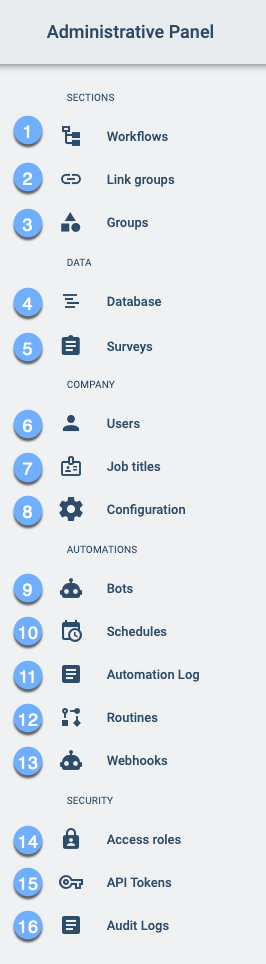
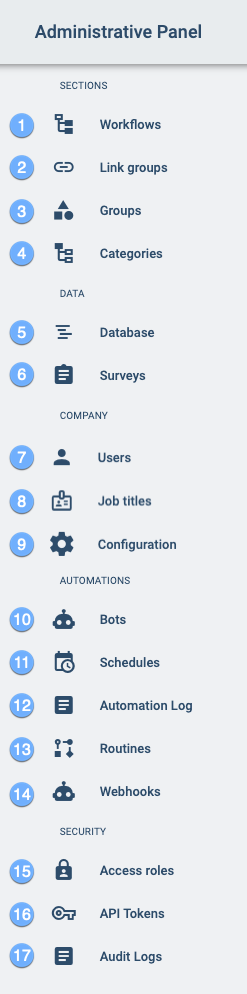
Categories - Nested Groups

diff --git a/sidebars.js b/sidebars.js
@@ -114,6 +114,7 @@ module.exports = {
               ],
               collapsed: true,
             },
+            'documentation/admin/admin_categories',
           ],
           collapsed: true,
         },
@@ -339,7 +340,7 @@ module.exports = {
     },
     {
       type: 'category',
-      label: 'Channels & Messages',
+      label: 'Groups & Messages',
       items: [
         'documentation/api/communication/channels',
         'documentation/api/communication/messages',
@@ -404,7 +405,7 @@ module.exports = {
     },
     {
       type: 'category',
-      label: 'Channels & Messages',
+      label: 'Groups & Messages',
       items: [
         'documentation/models/communication/model_channels',
         'documentation/models/communication/model_groups',

diff --git a/docs/documentation/admin/admin_categories.md b/docs/documentation/admin/admin_categories.md
@@ -1,0 +1,165 @@
+---
+title: Categories
+---
+import useBaseUrl from '@docusaurus/useBaseUrl';
+
+<img alt="design" className="img_title" src={useBaseUrl('img/design/Main_menu.svg')} />
+
+## Overview {#overview}
+
+In the **Categories** section, you can set up _groups_ that act as sub-menus within the _Main Menu Bar_. _Category groups_ are sets of _standard_, _link_, and/or _workflow_ groups categorized together.
+
+_Category groups appear on the Main Menu Bar as shown below:_
+
+<img alt="categories" className="img_sizing item shadow--tl" src={useBaseUrl('img/admin_categories_00a.gif')} />
+<br/>
+
+:::note
+- _Category groups_ can only be one level deep.
+- Sub-menus appear initially in the closed position but will reappear in the last position left at by the user.
+:::
+
+## Access the Categories Section {#access}
+_To access the Categories section:_
+
+<img alt="categories" className="img_sizing item shadow--tl" src={useBaseUrl('img/admin_categories_00.png')} />
+<br/>
+
+<div className="margin margin-left--lg">
+
+1. From the **Main Menu Bar**, select <span className="badge badge--primary">Administrador</span>.
+2. In the **Administrative Panel**, choose <span className="badge badge--info">Categories</span>.
+3. The **Categories** section opens up. From there, you can create or edit _category groups_ to set up sub-menus.
+
+</div>
+<br/>
+
+## Categories Panel Layout {#layout}
+
+<div className="alert alert--secondary">
+
+The **Categories** panel contains a list of all existing _category groups_, along with the options to create and edit them.
+
+<img alt="categories" className="img_sizing item shadow--tl" src={useBaseUrl('img/admin_categories_01.png')} />
+<br/>
+
+<div className="margin margin-left--lg">
+
+_Actions:_
+- **1. Create new group**: [Create a category group](#create) that will be displayed as a sub-menu in the Main Menu Bar.
+
+_Options:_
+- **A. Icon**: Displays the category's icon.
+- **B. Name**: The category's name.
+- **C. Last modified**: Indicates when the category was last modified.
+- **D. Edit**: The _pen icon_ lets you [edit the group](#edit).
+
+</div>
+
+</div>
+<br/>
+
+## Create a New Group {#create}
+To create a new category, press the <span className="badge badge--secondary">+</span> icon found in the upper right-hand corner. Afterward, the [Create Category settings panel](#settings) will open up.
+
+<img alt="categories" className="img_sizing item shadow--tl" src={useBaseUrl('img/admin_categories_03.png')} />
+<br/>
+
+## Edit a Group {#edit}
+To edit an existing _category_, press its corresponding _pen icon_. Afterward, the [Edit Category settings panel](#settings) will open up.
+
+<img alt="categories" className="img_sizing item shadow--tl" src={useBaseUrl('img/admin_categories_04.png')} />
+<br/>
+<br/>
+
+<div className="alert alert--secondary">
+
+## Create/Edit Group Settings Panel Layout {#settings}
+_Whether creating or editing a category, the following settings panel opens up:_
+
+<img alt="categories" className="img_sizing item shadow--tl" src={useBaseUrl('img/admin_categories_02.png')} />
+<br/>
+
+_Actions:_
+- **1. Deactivate**: Makes the category group unavailable.
+- **2. Save**: Saves the last changes made to the category group.
+
+_Options:_
+- **A. General Information**: Indicate the category group's basic settings.
+- **B. Icon**: Set the icon representing the category group on the _Main Menu Bar_.
+
+</div>
+<br/>
+
+<div className="alert alert--secondary">
+
+### A. General Information {#general}
+_Set up the category group's basic settings._
+
+<img alt="categories" className="img_sizing item shadow--tl" src={useBaseUrl('img/admin_categories_05.png')} />
+<br/>
+
+<div className="container box">
+<div className="row table-row-1">
+<div className="col col--3"><strong>Name</strong>:</div>
+<div className="col col--4">The category group's display name.</div>
+<div className="col col--5"><em>It doesn't have to be unique and can contain any characters.</em></div>
+</div>
+
+
+<div className="row table-row-2">
+<div className="col col--3"><strong>Code</strong>:</div>
+<div className="col col--4">The category group's identification code name.</div>
+<div className="col col--5"><em>This field is automatically completed with the text input in the Name field, but can be manually changed before saving. The code only allows lowecase letters, numbers, underscores, and must always begin with a letter.</em></div>
+</div>
+
+<div className="row table-row-1">
+<div className="col col--3"><strong>Weight</strong>:</div>
+<div className="col col--4">A relative number that positions the group on the Main Menu Bar or Group Panel. Smaller numbers accommodate the group near the top, larger numbers towards the end.</div>
+<div className="col col--5"><em>If left empty, the system will automatically determine a value which can be edited later on.</em></div>
+</div>
+
+<div className="row table-row-2">
+<div className="col col--3"><strong>Nested groups</strong>:</div>
+<div className="col col--4">Select the groups that are included in the category from the drop-down menu.</div>
+<div className="col col--5"><em>Groups already in other categories are not displayed in the drop-down menu.</em></div>
+</div>
+
+</div>
+</div>
+<br/>
+
+<div className="alert alert--secondary">
+
+### B. Icon {#icon}
+_Configure the category's icon displayed on the Main Menu Bar._
+
+<img alt="categories" className="img_sizing item shadow--tl" src={useBaseUrl('img/admin_categories_06.png')} />
+<br/>
+
+<div className="container box">
+<div className="row table-row-1">
+<div className="col col--3"><b>Select icon:</b></div>
+<div className="col col--5">Choose personalized or pre-designed icon from the menu.</div>
+<div className="col col--4"><em>Personalized icons are configured in the "Path" field.</em></div>
+</div>
+<div className="row table-row-2">
+<div className="col col--3"><b>Color:</b></div>
+<div className="col col--5">Choose the icon's color.</div>
+<div className="col col--4"><em></em></div>
+</div>
+<div className="row table-row-1">
+<div className="col col--3"><b>Path:</b></div>
+<div className="col col--5">Must be filled with Scalable Vector Graphics (SVG) code.</div>
+<div className="col col--4"><em>The path is completed automatically when a pre-designed icon is chosen. For personalized icons, SVG code must be inserted manually.</em></div>
+</div>
+</div>
+<br/>
+
+</div>
+<br/>
+
+---
+## Related Resources {#related}
+- [COTGroup Data Model](/docs/documentation/models/communication/model_groups): The `nestedGroups` field is an array that contains the ObjectId of each group in the category.
+- [Group API Reference](/docs/documentation/api/communication/groups): The `hasCatergories` parameter filters category groups.

diff --git a/docs/documentation/api/communication/groups.md b/docs/documentation/api/communication/groups.md
@@ -13,6 +13,7 @@ Group types:
 - _Standard groups_ contain channels used for communicating with other users. 
 - _Workflow or Task groups_, like standard groups, have communication channels but are associated with workflow tasks and their states. 
 - _Link groups_ direct you to anywhere within or outside the Cotalker environment.
+- _Category groups_ bring together other groups to form sub-menus on the Main Menu Bar.
 
 
 ## Get Groups {#get-all-groups}
@@ -32,25 +33,27 @@ Header | Description | Required | Values
 
 Parameter | Description | Type | Required | Notes
 --- | --- | --- | ---- | ----
-**search** | Returns _groups_ that match the keywords in the `groups.search` field array. | string | Optional |
-**limit** | Limits the amount of _groups_ returned in the response. | number | Optional | By default, the _limit_ is set to 10.
-**page** | Makes the response display data from the indicated page number. | number | Optional | Best used in combination with the "limit" parameter.
-**count** | Adds the `counter` field with the total amount of _groups_ within the company. | boolean | Optional | 
-**orderBy** | Orders the _groups_ by ascendeing or descending order according to their `modifiedAt` field. | string | Optional | Options: `asc`, `desc`
-**sortBy** | Sorts _groups_ in the response according to the `modifiedAt` field. | string | Optional | `modifiedAt` is the only value available.
-**isActive** | Returns _groups_ according to their `isActive` status. | string | Optional | Options are: `all`, `true`, `false`
-**modified** | Returns _groups_ with the indicated modification date in the `modifiedAt` field. | ISODate | Optional | YYYY-MM-DDTHH:mm:ss.SSSZ
-**modified_gt** | Returns _groups_ modified after the indicated date and time. | ISODate | Optional | YYYY-MM-DDTHH:mm:ss.SSSZ
-**modified_gte** | Returns _groups_ with a value in the `modifiedAt` field equal to or greater than the indicated date and time. | ISODate | Optional | YYYY-MM-DDTHH:mm:ss.SSSZ
 **created** | Returns _groups_ with the indicated creation date in the `createdAt` field. | ISODate | Optional | YYYY-MM-DDTHH:mm:ss.SSSZ
 **created_gt** | Returns _groups_ created after the indicated date and time. | ISODate | Optional | YYYY-MM-DDTHH:mm:ss.SSSZ
 **created_gte** | Returns _groups_ with a value in the `createdAt` field equal to or greater than the indicated date and time. | ISODate | Optional | YYYY-MM-DDTHH:mm:ss.SSSZ
 **created_lt** | Returns _groups_ created before the indicated date and time. | ISODate | Optional | YYYY-MM-DDTHH:mm:ss.SSSZ
 **created_lte** | Returns _groups_ with a value in the `createdAt` field equal to or less than the indicated date and time. | ISODate | Optional | YYYY-MM-DDTHH:mm:ss.SSSZ
+**count** | Adds the `counter` field with the total amount of _groups_ within the company. | boolean | Optional | 
+**groupType** | Returns groups specified by type. | string | Optional | Available values: `link` (link groups), `task` (workflow or task groups), and `channel` (standard groups)
+**hasCatergories** | Filters [category groups](/docs/documentation/admin/admin_categories), i.e., groups displayed in sub-menus on the Main Menu Bar. | boolean | Optional | `true` displays categorized groups. `false` displays uncategorized groups.
+**isActive** | Returns _groups_ according to their `isActive` status. | string | Optional | Options are: `all`, `true`, `false`
 **isLink** | Returns all _link groups_ found in the company. | boolean | Optional |
 **isTaskGroup** | Returns all _task groups_ found in the company. | boolean | Optional |
-**groupType** | Returns groups specified by type. | string | Optional | Available values: `link` (link groups), `task` (workflow or task groups), and `channel` (standard groups)
 **debug** | Adds the `debug` field with error notifications. | string | Optional | Option: `true`
+**limit** | Limits the amount of _groups_ returned in the response. | number | Optional | By default, the _limit_ is set to 10.
+**modified** | Returns _groups_ with the indicated modification date in the `modifiedAt` field. | ISODate | Optional | YYYY-MM-DDTHH:mm:ss.SSSZ
+**modified_gt** | Returns _groups_ modified after the indicated date and time. | ISODate | Optional | YYYY-MM-DDTHH:mm:ss.SSSZ
+**modified_gte** | Returns _groups_ with a value in the `modifiedAt` field equal to or greater than the indicated date and time. | ISODate | Optional | YYYY-MM-DDTHH:mm:ss.SSSZ
+**orderBy** | Orders the _groups_ by ascendeing or descending order according to their `modifiedAt` field. | string | Optional | Options: `asc`, `desc`
+**page** | Makes the response display data from the indicated page number. | number | Optional | Best used in combination with the "limit" parameter.
+**sortBy** | Sorts _groups_ in the response according to the `modifiedAt` field. | string | Optional | `modifiedAt` is the only value available.
+**search** | Returns _groups_ that match the keywords in the `groups.search` field array. | string | Optional |
+
 
 #### Request Samples {#get-all-request-sample}
 

diff --git a/docs/documentation/admin/admin_overview.md b/docs/documentation/admin/admin_overview.md
@@ -51,31 +51,32 @@ _From the administrative panel, you can access the following:_
   1. [**Workflows**](/docs/documentation/admin/workflows/admin_workflow_overview): Create and configure workflow groups and workflows.
   2. [**Link Groups**](/docs/documentation/admin/admin_links): Create links that appear on the _Main Menu Bar_ or within a _group_.
   3. [**Groups**](/docs/documentation/admin/admin_group): Create _standard groups_ for communicating with other users and sharing information.
+  4. [**Categories**](/docs/documentation/admin/admin_categories): Configure sub-menus on the _Main Menu Bar_.
 
 <span className="hero__subtitle">DATA</span>
 
-  4. [**Database**](/docs/documentation/admin/database/admin_database_overview): Manage collections and elements.
-  5. [**Surveys**](/docs/documentation/admin/survey/survey_overview): Create and modify surveys used to gather information from users or configure workflows.
+  5. [**Database**](/docs/documentation/admin/database/admin_database_overview): Manage collections and elements.
+  6. [**Surveys**](/docs/documentation/admin/survey/survey_overview): Create and modify surveys used to gather information from users or configure workflows.
 
 <span className="hero__subtitle">COMPANY</span>
 
-  6. [**Users**](/docs/documentation/admin/users): Create and modify _user profiles_ along with their access roles, job titles, and additional fields.
-  7. [**Job Titles**](/docs/documentation/admin/admin_jobtitles): Create job titles that can be associated to users as elements with special attributes.
-  8. [**Configuration**](/docs/documentation/admin/admin_company): Edit company information and language.
+  7. [**Users**](/docs/documentation/admin/users): Create and modify _user profiles_ along with their access roles, job titles, and additional fields.
+  8. [**Job Titles**](/docs/documentation/admin/admin_jobtitles): Create job titles that can be associated to users as elements with special attributes.
+  9. [**Configuration**](/docs/documentation/admin/admin_company): Edit company information and language.
 
 <span className="hero__subtitle">AUTOMATIONS</span>
 
-  9. [**Bots**](/docs/documentation/admin/admin_bots): Create and edit customized bots to carry out automated routines.
-  10. [**Schedules**](/docs/documentation/admin/admin_bots): Create and edit scheduled routines.
-  11. [**Automation Log**](/docs/documentation/automation/automation_log): Monitor all automations carried out in the Cotalker environment.
-  12. [**Routines**](/docs/documentation/admin/routines): Create or edit predetermined bots that can be later used in routines.
-  13. [**Webhooks**](/docs/documentation/admin/admin_webhooks): Set up triggers that send data to your server upon certain events.
+  10. [**Bots**](/docs/documentation/admin/admin_bots): Create and edit customized bots to carry out automated routines.
+  11. [**Schedules**](/docs/documentation/admin/admin_bots): Create and edit scheduled routines.
+  12. [**Automation Log**](/docs/documentation/automation/automation_log): Monitor all automations carried out in the Cotalker environment.
+  13. [**Routines**](/docs/documentation/admin/routines): Create or edit predetermined bots that can be later used in routines.
+  14. [**Webhooks**](/docs/documentation/admin/admin_webhooks): Set up triggers that send data to your server upon certain events.
 
 <span className="hero__subtitle">SECURITY</span>
 
-  14. [**Access Roles**](/docs/documentation/admin/admin_accessrole): Create and modify sets of permissions given to users for different types of access.
-  15. [**API Tokens**](/docs/documentation/admin/admin_token): Create API tokens or bearer keys that grant different levels of access and can be shared with users even outside the Cotalker environment.
-  16. [**Audit Logs**](/docs/documentation/admin/admin_auditlogs): Monitor creation and modifications of _users_ and _access roles_.
+  15. [**Access Roles**](/docs/documentation/admin/admin_accessrole): Create and modify sets of permissions given to users for different types of access.
+  16. [**API Tokens**](/docs/documentation/admin/admin_token): Create API tokens or bearer keys that grant different levels of access and can be shared with users even outside the Cotalker environment.
+  17. [**Audit Logs**](/docs/documentation/admin/admin_auditlogs): Monitor creation and modifications of _users_ and _access roles_.
 
 </div>
 

diff --git a/docs/documentation/client/groups.md b/docs/documentation/client/groups.md
@@ -17,16 +17,19 @@ _Groups_ are the primary place to interact and exchange information in the Cotal
 <div className="alert alert--primary">
 
 ## Group Types {#group-types}
-_Groups_ – which can only be created by administrators – are classified into three kinds:
+_Groups_ – which can only be created by administrators – are classified into four kinds:
 
 ### Standard Groups {#regular-groups} 
-Normally, we refer to _regular groups_ simply as _groups_. They incorporate a list of users and include [_channels_](/docs/documentation/client/basic_concepts#channel), i.e., chat rooms for messaging and answering surveys. Groups can have subgroups and more than one channel. 
+Normally, we refer to _standard groups_ simply as _groups_. They incorporate a list of users and include [_channels_](/docs/documentation/client/basic_concepts#channel), i.e., chat rooms for messaging and answering surveys. Groups can have subgroups and more than one channel. 
 
 ### Workflow Groups {#workflow-groups}
 _Workflow groups_, also known as _task groups_, are similar to standard groups in that they include channels and subgroups. Their great advantage is that they host [_tasks_](/docs/documentation/client/basic_concepts#tasks) with their corresponding [_channels_](/docs/documentation/client/basic_concepts#channel). You can access task details either through the [_group panel_](#group-panel) or the [_channel workspace_](/docs/documentation/client/channels).
 
 ### Link Groups {#link-groups}
 This kind of _group_ is a _link_ that can be found in the [_main menu bar_](/docs/documentation/client/main_menu) or [_group panel_](#group-panel). It can redirect the user to another source of information, whether internal or external to the Cotalker environment.
+
+### Category Groups {#category-groups}
+All group types can be grouped into _categories_. These _category groups_ then appear as sub-menus in the Main Menu Bar.  
 
 </div>
 <br/>

diff --git a/blog/2022-07-20-nested-groups.md b/blog/2022-07-20-nested-groups.md
@@ -1,0 +1,46 @@
+---
+title: Categorize Groups into Sub-Menus
+description: As your Cotalker environment grows, it's necessary to improve access to the groups that contain your tasks, channels, and other links to valuable tools. All groups can now be put into categories that appear in the Main Menu Bar as sub-menus. Category groups can display or hide nested groups within the Main Menu Bar.
+image: img/updates/update_categories.png
+draft: false
+---
+
+import useBaseUrl from '@docusaurus/useBaseUrl'; 
+import Highlight from '@theme/Highlight';
+
+<div className="align-center">
+<div className="card">
+<div className="card__header">
+
+<span className="hero__subtitle"><em>
+
+Organize and facilitate access to all your groups.
+
+</em></span>
+
+</div>
+<div className="card__image">
+
+<img alt="feature image" className="img_card item shadow--tl" src={useBaseUrl('img/updates/update_categories.png')} />
+<br/>
+
+</div>
+<div className="card__body">
+
+As your Cotalker environment grows, it's necessary to improve access to the groups that contain your tasks, channels, and other links to valuable tools. All groups can now be put into categories that appear in the Main Menu Bar as sub-menus. Category groups can display or hide nested groups within the Main Menu Bar.
+
+</div>
+<div className="card__footer text-center align-padding-center">
+
+<a className="button button--info button--block" href="/docs/documentation/admin/admin_categories">Admin Documentation</a>
+<br/>
+
+<a className="button button--info button--block" href="/docs/documentation/models/communication/model_groups">Data Model</a>
+<br/>
+
+<a className="button button--info button--block" href="/docs/documentation/api/communication/groups">API Reference</a>
+<br/>
+
+</div>
+</div>
+</div>

diff --git a/docs/documentation/models/communication/model_groups.md b/docs/documentation/models/communication/model_groups.md
@@ -109,6 +109,7 @@ import TabItem from '@theme/TabItem';
 | modifiedAt | Last date and time the group was modified | ISODate | YYYY-MM-DDTHH:mm:ss.SSSZ |
 | nameCode | The group's unique identification name | string | Maximum 60 characters; only lowercase letters, numbers, and underscore allowed; must be unique. |
 | nameDisplay | The group name users see on the platform  | string | |
+| nestedGroups | Contains the ObjectIds of the _groups_ in a _category_ displayed as a sub-menu on the Main Menu Bar. | ObjectId<ObjectId\>[ ] | More information in the [Categories](/docs/documentation/admin/admin_categories) section. |
 | parent | Indicates parent group | ObjectId<COTGroup\> | [Group Data Model](/docs/documentation/models/communication/model_groups) |
 | search | Array of automatically generated search keywords | string [ ] | |
 | viewSettings | Sets the initial display type for workflow groups. | object | |
